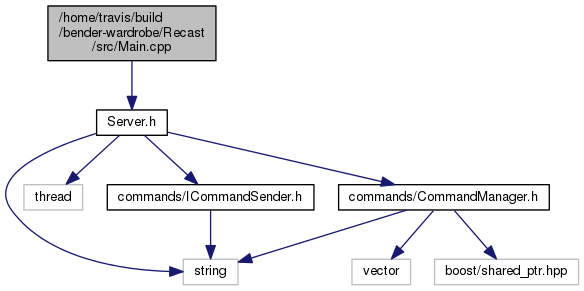
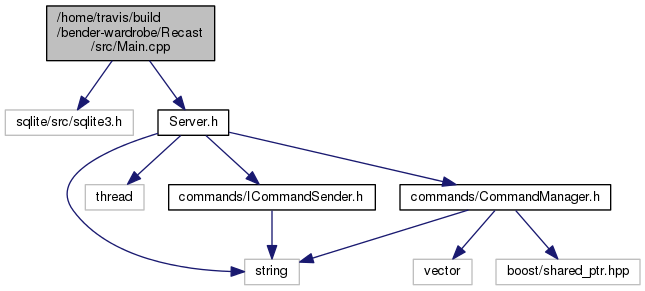
Deploy code docs to GitHub Pages Travis build: 84
Commit: 12eab2169643ff48be4c50040ea9f10bae259e2d

diff --git a/html/_main_8cpp.html b/html/_main_8cpp.html
@@ -95,13 +95,14 @@ var searchBox = new SearchBox("searchBox", "search",false,'Search');
 
 <p>Start point.  
 <a href="#details">More...</a></p>
-<div class="textblock"><code>#include &quot;<a class="el" href="_server_8h_source.html">Server.h</a>&quot;</code><br/>
+<div class="textblock"><code>#include &lt;sqlite/src/sqlite3.h&gt;</code><br/>
+<code>#include &quot;<a class="el" href="_server_8h_source.html">Server.h</a>&quot;</code><br/>
 </div><div class="textblock"><div class="dynheader">
 Include dependency graph for Main.cpp:</div>
 <div class="dyncontent">
 <div class="center"><img src="_main_8cpp__incl.png" border="0" usemap="#_2home_2travis_2build_2bender-wardrobe_2_recast_2src_2_main_8cpp" alt=""/></div>
 <map name="_2home_2travis_2build_2bender-wardrobe_2_recast_2src_2_main_8cpp" id="_2home_2travis_2build_2bender-wardrobe_2_recast_2src_2_main_8cpp">
-<area shape="rect" id="node2" href="_server_8h.html" title="Server file. " alt="" coords="97,109,167,136"/><area shape="rect" id="node5" href="_i_command_sender_8h_source.html" title="commands/ICommandSender.h" alt="" coords="107,184,313,211"/><area shape="rect" id="node6" href="_command_manager_8h.html" title="CommandManager file. " alt="" coords="339,184,548,211"/></map>
+<area shape="rect" id="node3" href="_server_8h.html" title="Server file. " alt="" coords="158,109,228,136"/><area shape="rect" id="node6" href="_i_command_sender_8h_source.html" title="commands/ICommandSender.h" alt="" coords="169,184,375,211"/><area shape="rect" id="node7" href="_command_manager_8h.html" title="CommandManager file. " alt="" coords="400,184,609,211"/></map>
 </div>
 </div><table class="memberdecls">
 <tr class="heading"><td colspan="2"><h2 class="groupheader"><a name="func-members"></a>

diff --git a/latex/refman.tex b/latex/refman.tex
@@ -67,8 +67,8 @@
 \fancyhead[RO]{\fancyplain{}{\bfseries\thepage}}
 \fancyfoot[LE]{\fancyplain{}{}}
 \fancyfoot[CE]{\fancyplain{}{}}
-\fancyfoot[RE]{\fancyplain{}{\bfseries\scriptsize Generated on Tue Jun 13 2017 16\-:43\-:18 for Recast by Doxygen }}
-\fancyfoot[LO]{\fancyplain{}{\bfseries\scriptsize Generated on Tue Jun 13 2017 16\-:43\-:18 for Recast by Doxygen }}
+\fancyfoot[RE]{\fancyplain{}{\bfseries\scriptsize Generated on Tue Jun 13 2017 19\-:09\-:36 for Recast by Doxygen }}
+\fancyfoot[LO]{\fancyplain{}{\bfseries\scriptsize Generated on Tue Jun 13 2017 19\-:09\-:36 for Recast by Doxygen }}
 \fancyfoot[CO]{\fancyplain{}{}}
 \fancyfoot[RO]{\fancyplain{}{}}
 \renewcommand{\footrulewidth}{0.4pt}
@@ -120,7 +120,7 @@
 \vspace*{1cm}
 {\large Generated by Doxygen 1.8.6}\\
 \vspace*{0.5cm}
-{\small Tue Jun 13 2017 16:43:18}\\
+{\small Tue Jun 13 2017 19:09:36}\\
 \end{center}
 \end{titlepage}
 \clearemptydoublepage

diff --git a/latex/_main_8cpp.tex b/latex/_main_8cpp.tex
@@ -6,6 +6,7 @@
 Start point.  
 
 
+{\ttfamily \#include $<$sqlite/src/sqlite3.\-h$>$}\\*
 {\ttfamily \#include \char`\"{}Server.\-h\char`\"{}}\\*
 Include dependency graph for Main.\-cpp\-:
 \nopagebreak
